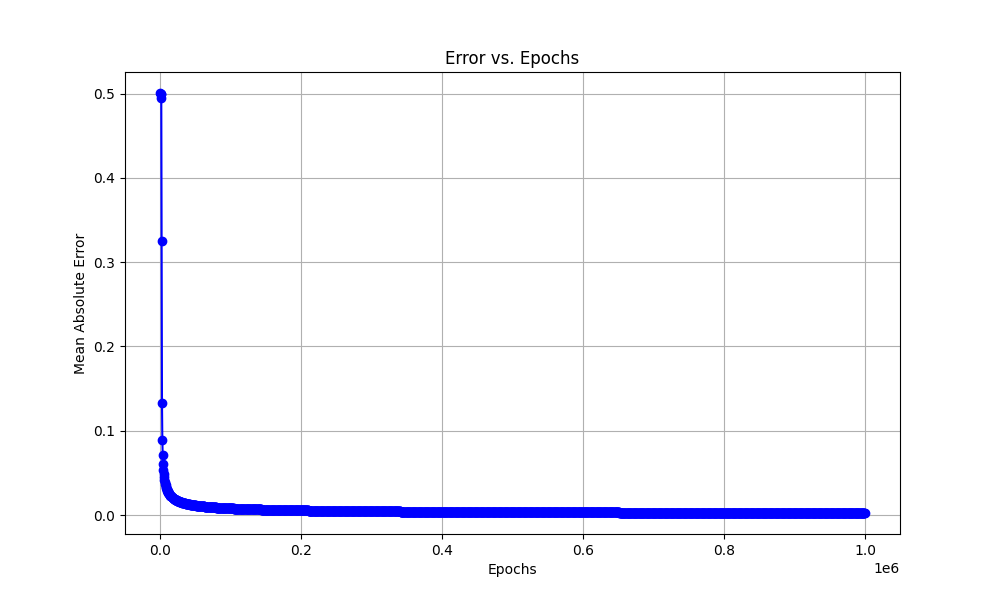
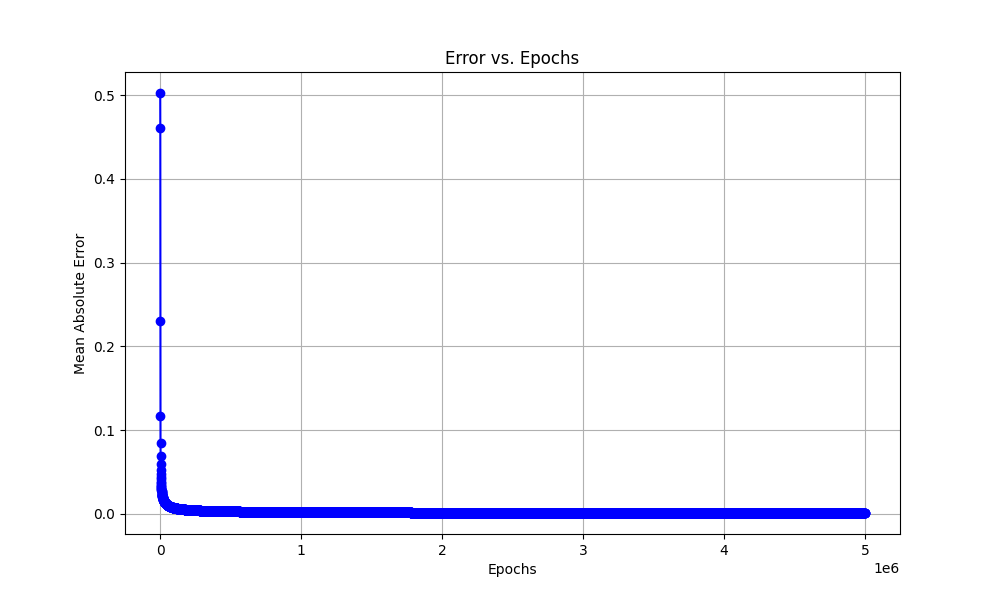
5 million epochs

diff --git a/and.py b/and.py
@@ -26,7 +26,7 @@ outputs = np.array([[1], [0], [0], [1]])
 # Initialize weights
 np.random.seed(1)
 input_layer_neurons = 2
-hidden_layer_neurons = 4
+hidden_layer_neurons = 8
 output_neurons = 1
 
 weights_input_hidden = np.random.uniform(size=(input_layer_neurons, hidden_layer_neurons))
